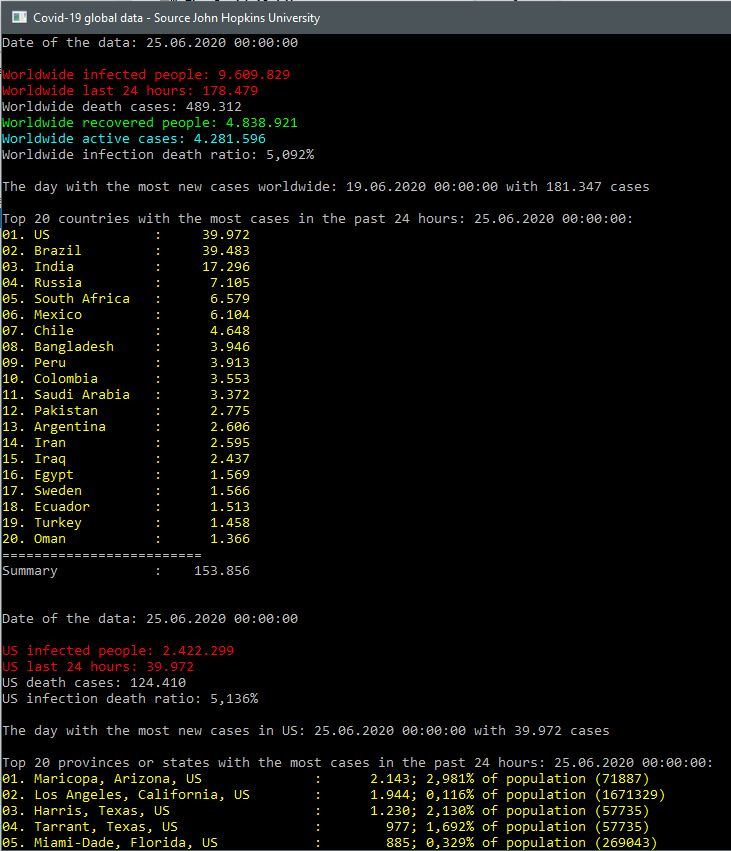
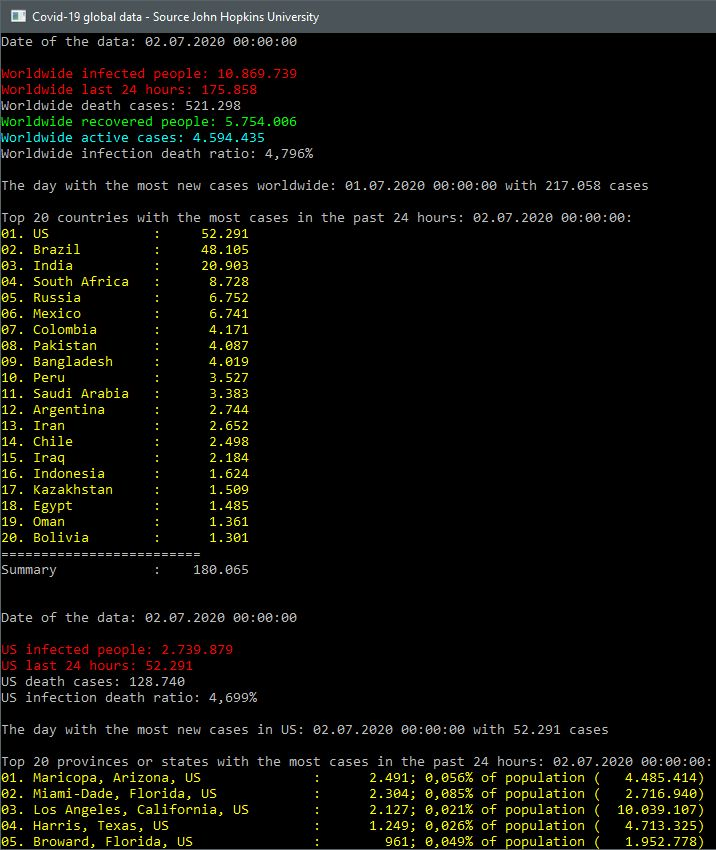
correction of calculation in the US

Changed region(s): [[0.0, 0.0, 0.9832, 1.0]]

diff --git a/Covid19LibCLI/Program.cs b/Covid19LibCLI/Program.cs
@@ -179,7 +179,7 @@ namespace Covid19LibCLI
             foreach (var top in top20Today)
             {
                 c++;
-                var population = deathsUS.Find(x => x.ProvinceOrState == top.ProvinceOrState).Population;
+                var population = deathsUS.Find(x => x.UID == top.UID).Population;
                 var populationFormated = $"{int.Parse(population):N0}";
                 var percentageOfPopulation = $"{top.Last24Hours * 100d / int.Parse(population):N3}";
                 var last24Hours = $"{top.Last24Hours:N0}";
